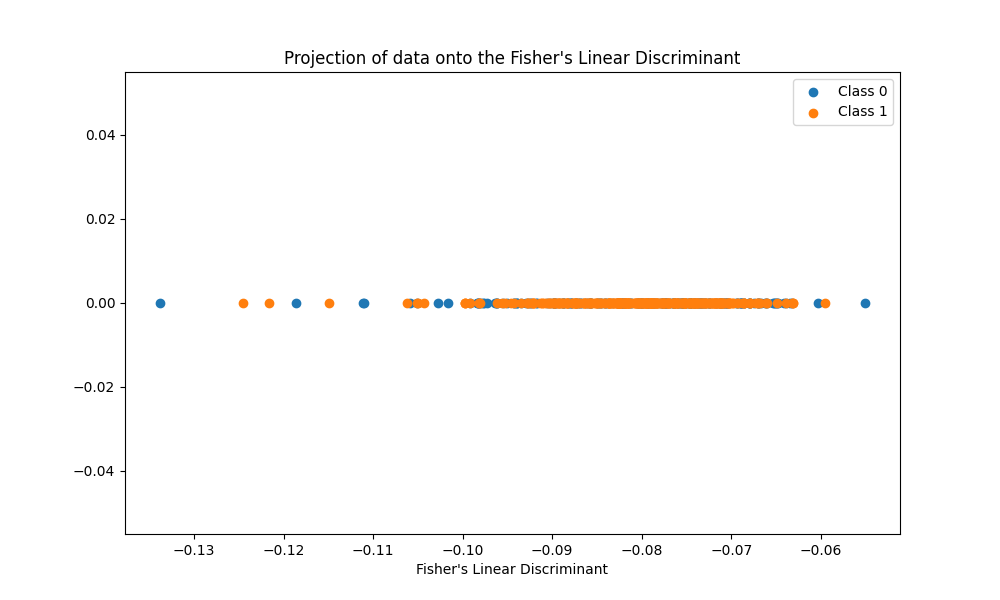
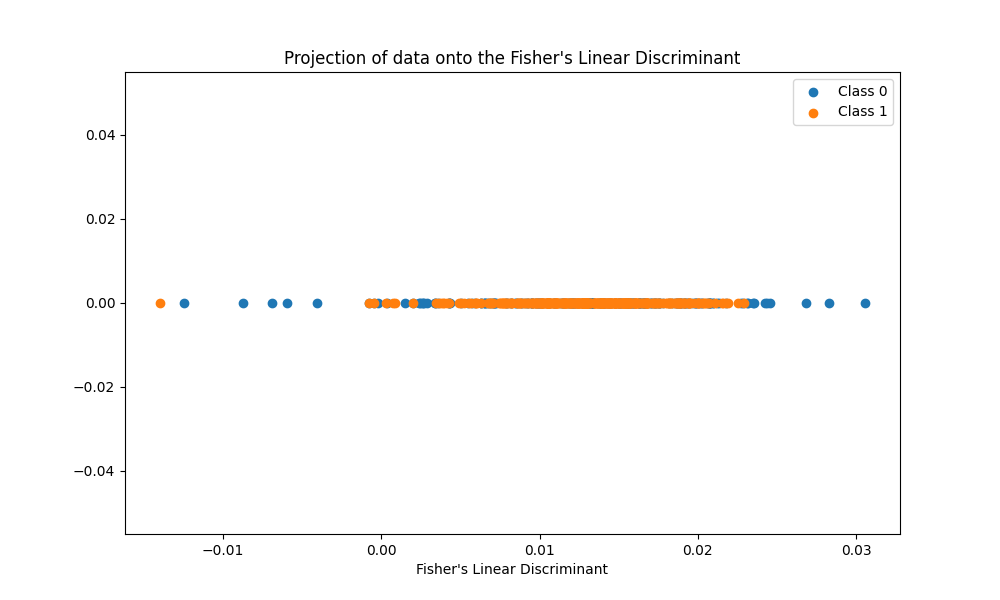
aaaa

diff --git a/hw5/test.py b/hw5/test.py
@@ -1,52 +1,25 @@
 import numpy as np
-import matplotlib.pyplot as plt
-from data import data_space, data  # Ensure these are defined or imported correctly
+from data import data_space
 
-def FS(d_space: data_space):
-    # Calculating within-class and between-class scatter
-    sw = 0
-    sb = 0
-    mean_c = np.empty((0, d_space[0].get_feature_in_matrix().shape[1]))
-    for c in range(len(d_space)):
-        mean_c = np.vstack((mean_c, np.mean(d_space[c].get_feature_in_matrix(), axis=0)))
-    mean_a = np.mean(mean_c, axis=0)
-
-    for c in range(len(d_space)):
-        x_m = d_space[c].get_feature_in_matrix().copy()
-        for i in range(x_m.shape[1]):
-            x_m[:, i] = x_m[:, i] - mean_c[c, i]
-        sw += np.dot(x_m.T, x_m) / x_m.shape[0]
-        c_a = mean_c[c] - mean_a
-        sb += np.dot(c_a.reshape(-1, 1), c_a.reshape(1, -1))
-
-    # Solving the generalized eigenvalue problem for sw^-1 * sb
-    eigvals, eigvecs = np.linalg.eig(np.linalg.inv(sw).dot(sb))
-
-    # Sorting the eigenvectors by decreasing eigenvalues
-    eiglist = [(eigvals[i], eigvecs[:, i]) for i in range(len(eigvals))]
-    # eiglist = sorted(eiglist, key=lambda x: x[0], reverse=True)
-
-    # Selecting the eigenvector with the largest eigenvalue
+def fs(d_space:data_space):
     
-    # w = eiglist[0][1]
-    # print(eiglist[0])
-    for i in range(len(eiglist)):
-        w = eiglist[i][1]
-        # Projecting data onto the selected eigenvector
-        projected_data = []
-        labels = []
-        for c in range(len(d_space)):
-            proj = d_space[c].get_feature_in_matrix().dot(w)
-            projected_data.append(proj)
-            labels += [c] * proj.shape[0]
-
-        # Visualization
-        plt.figure(figsize=(10, 6))
-        for c, proj in enumerate(projected_data):
-            plt.scatter(proj, np.zeros_like(proj), label=f'Class {c}')
-        plt.title('Projection of data onto the Fisher\'s Linear Discriminant')
-        plt.xlabel('Fisher\'s Linear Discriminant')
-        plt.legend()
-        image_path = f"./images/fs_feature_{i+1}.png"
-        plt.savefig(image_path)
-        plt.close()
+    m0 = np.mean(d_space[0].get_feature_in_matrix(), axis=0)
+    m1 = np.mean(d_space[1].get_feature_in_matrix(), axis=0)
+    m = np.mean(np.vstack((m0, m1)), axis=0)
+    sw0 = sum((d_space[0].get_feature_in_matrix() - m0)**2)
+    sw1 = sum((d_space[1].get_feature_in_matrix() - m1)**2)
+    n0 = len(d_space[0].get_feature_in_matrix())
+    n1 = len(d_space[1].get_feature_in_matrix())
+    n = n0 + n1
+    sb0 = n0/n * (m0 - m)**2
+    sb1 = n1/n * (m1 - m)**2
+    sb = sb0 + sb1
+    sw = (sw0 + sw1)/n
+    score = []
+    for i in range(len(sw)):
+        if sw[i] == 0:
+            score.append(0)
+        else:
+            score.append(sb[i]/sw[i])
+    score_index = np.argsort(score)[::-1]
+    return score_index, score

diff --git a/hw5/fs.py b/hw5/fs.py
@@ -1,10 +1,8 @@
-# Fisher’s Criterion
-import random
 import numpy as np
-from data import data_space, data
+import matplotlib.pyplot as plt
+from data import data_space, data  # Ensure these are defined or imported correctly
 
 def FS(d_space: data_space):
-    
     sw = 0
     sb = 0
     mean_c = np.empty((0, d_space[0].get_feature_in_matrix().shape[1]))
@@ -15,24 +13,41 @@ def FS(d_space: data_space):
     for c in range(len(d_space)):
         x_m = d_space[c].get_feature_in_matrix().copy()
         for i in range(x_m.shape[1]):
-            x_m[:,i] = x_m[:,i] - mean_c[c, i]
+            x_m[:, i] = x_m[:, i] - mean_c[c, i]
         sw += np.dot(x_m.T, x_m) / x_m.shape[0]
-        # c_a = np.zeros(len(mean_a))
-        # for i in range(len(mean_a)):
-        #     c_a[i] = mean_c[c,i] - mean_a[i]
         c_a = mean_c[c] - mean_a
-        # c_a = np.vstack((c_a, np.zeros(c_a.shape[0])))
-        # sb += np.dot(c_a.T, c_a)
         sb += np.dot(c_a.reshape(-1, 1), c_a.reshape(1, -1))
-    eigvals, eigvecs = np.linalg.eig(np.linalg.inv(sw).dot(sb))
-    eiglist = [(eigvals[i], eigvecs[:, i]) for i in range(len(eigvals))]
-    eiglist = sorted(eiglist, key=lambda x: x[0], reverse=True)
 
+    # Solving the generalized eigenvalue problem for sw^-1 * sb
+    eigvals, eigvecs = np.linalg.eig(np.linalg.inv(sw).dot(sb))
+
+    # Sorting the eigenvectors by decreasing eigenvalues
+    eiglist = [(eigvals[i], eigvecs[:, i]) for i in range(len(eigvals))]
+    # eiglist = sorted(eiglist, key=lambda x: x[0], reverse=True)
+
+    # Selecting the eigenvector with the largest eigenvalue
+    
     # w = eiglist[0][1]
-    sw = np.linalg.eig(sw)[0]
-    sb = np.linalg.eig(sb)[0]
-    score = np.zeros(len(sw))
-    for i in range(len(sw)):
-        score[i] = sb[i]/sw[i]
-        print(score[i])
-    return score
+    # print(eiglist[0])
+    for i in range(len(eiglist)):
+        w = eiglist[i][1]
+        # Projecting data onto the selected eigenvector
+        projected_data = []
+        labels = []
+        for c in range(len(d_space)):
+            proj = d_space[c].get_feature_in_matrix().dot(w)
+            projected_data.append(proj)
+            labels += [c] * proj.shape[0]
+
+        # Visualization
+        plt.figure(figsize=(10, 6))
+        for c, proj in enumerate(projected_data):
+            plt.scatter(proj, np.zeros_like(proj), label=f'Class {c}')
+        plt.title('Projection of data onto the Fisher\'s Linear Discriminant')
+        plt.xlabel('Fisher\'s Linear Discriminant')
+        plt.legend()
+        image_path = f"./images/fs_feature_{i+1}.png"
+        plt.savefig(image_path)
+        plt.close()
+    sorted_indices = np.argsort(abs(eigvals))[::-1]
+    return sorted_indices, abs(eigvals)

diff --git a/hw5/main.py b/hw5/main.py
@@ -3,8 +3,8 @@ from data import data_space, data
 from lda import LDA
 from ucimlrepo import fetch_ucirepo, list_available_datasets
 from sfs import SFS
-from test import FS
-# from fs import FS
+from fs import FS
+from test import fs as test_fs
 import matplotlib.pyplot as plt
 
 
@@ -46,7 +46,11 @@ for i in range(len(Y)):
 #     x2[i] = x2[i] - x1[i]
 # print(x2)
 ##################################FC+LDA####################################
-FS(d_space)
-# fcfs_fs, fcfs_sc = FCFS(d_space, 2) # 2-fold cross validation LDA FC
-
+# sorted_index, eigvals = FS(d_space)
+# print(sorted_index,"\n")
+# for i in sorted_index:
+#     print(eigvals[i])
+s_index, score = test_fs(d_space)
+for i in range(len(s_index)):
+    print(s_index[i], score[i])
 ############################################################################
